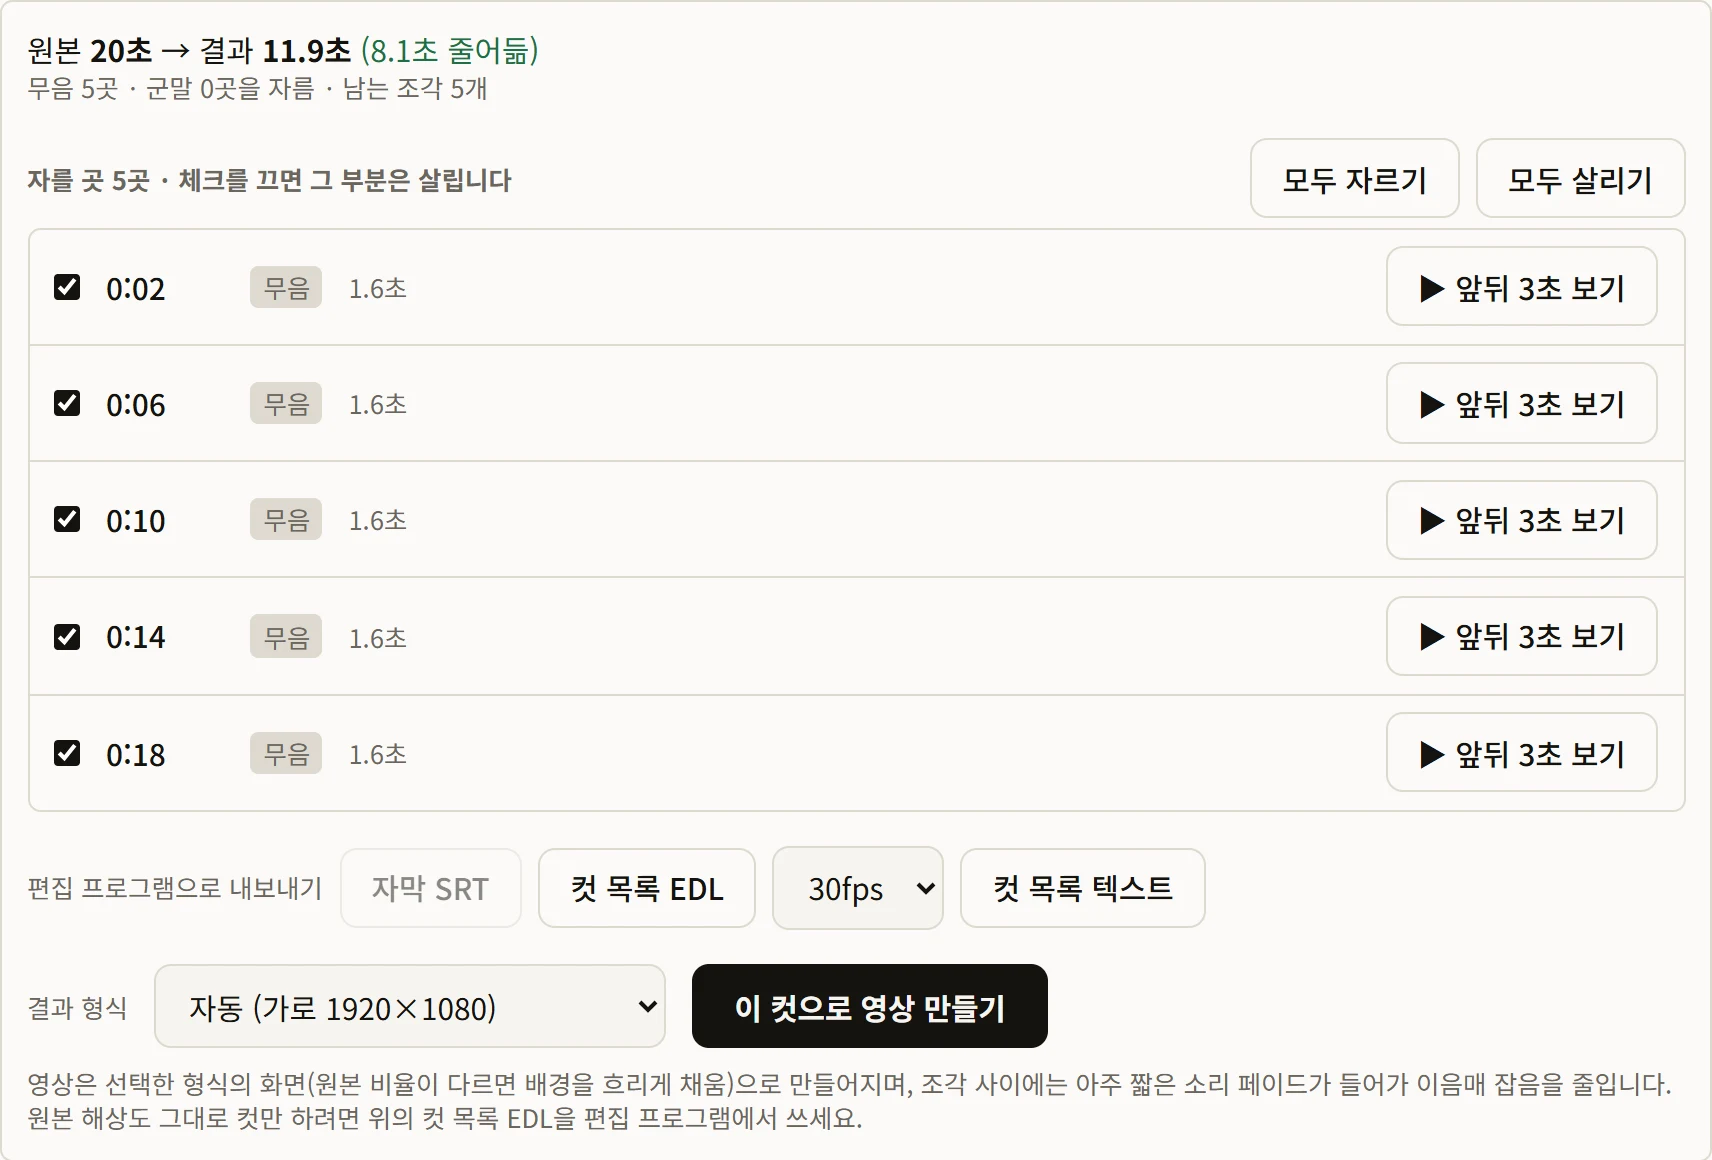
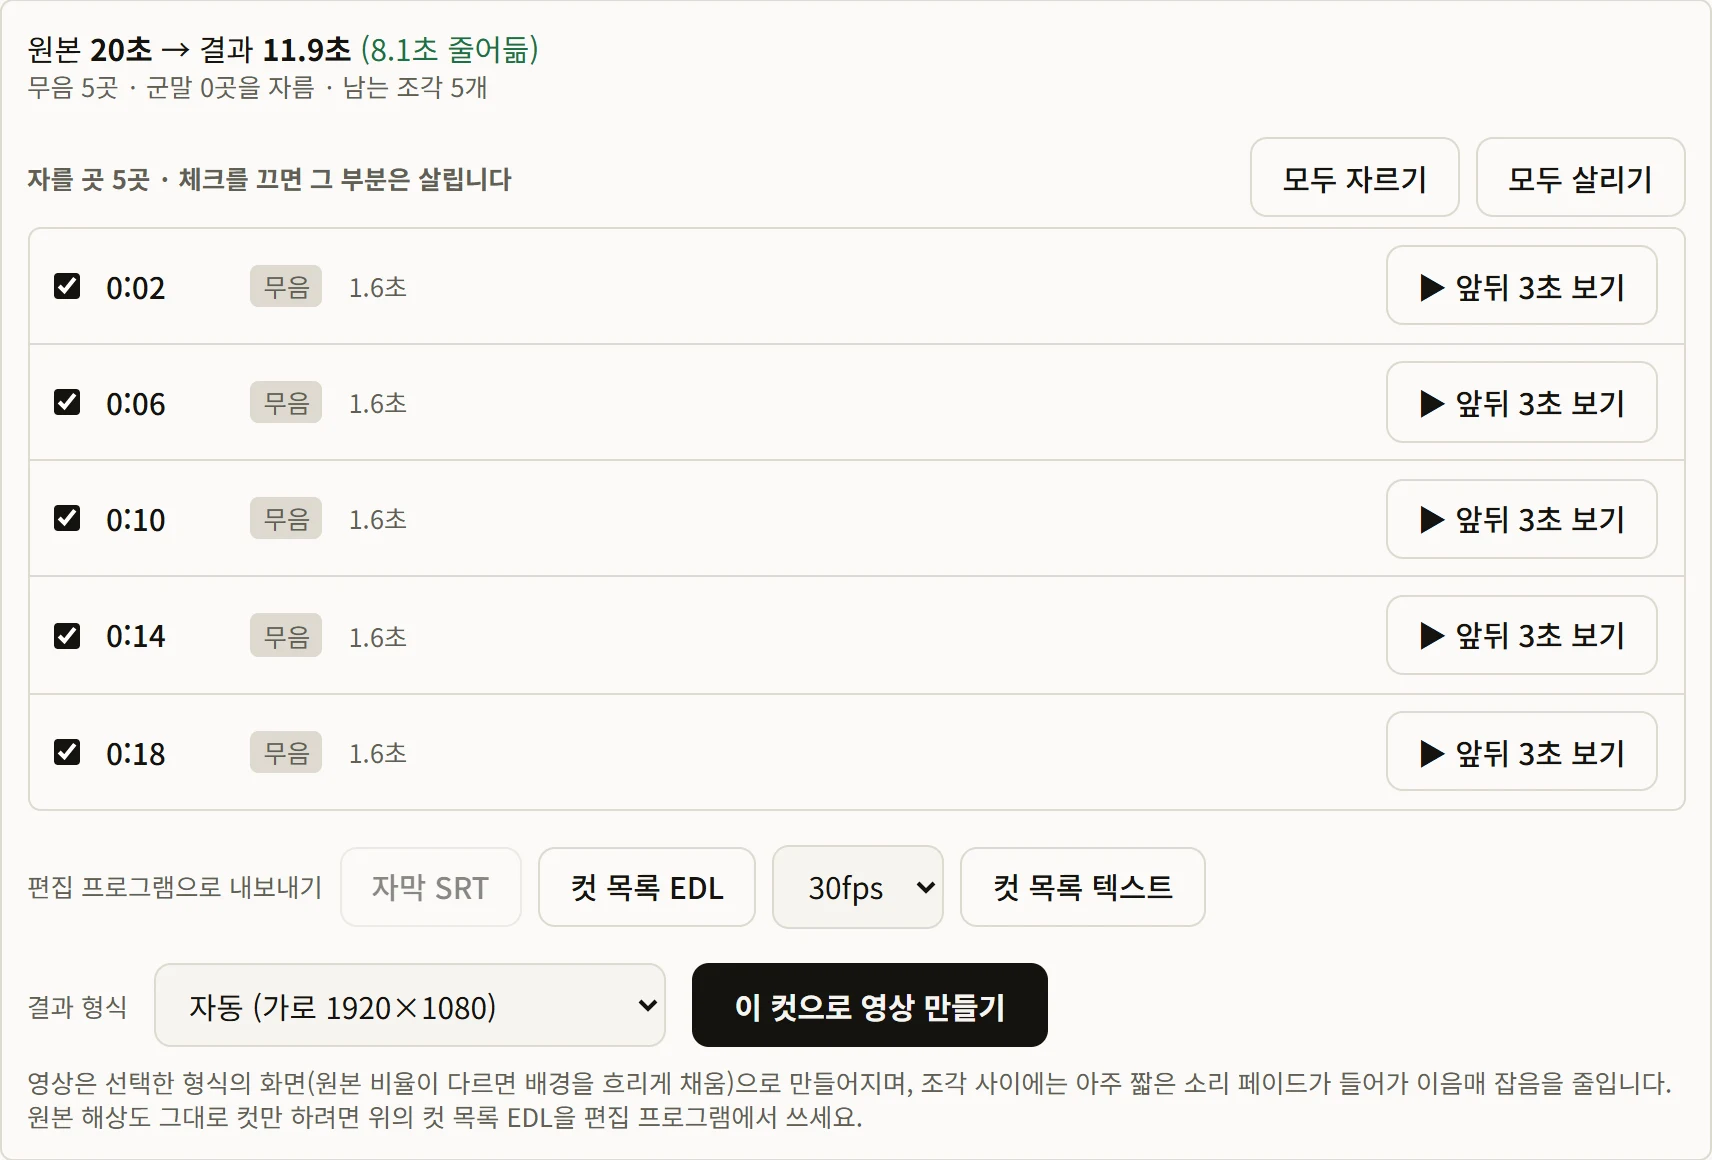
Refresh screenshots with the beat tool; list third-party software
- Retake the task, style and cut screenshots (the task list has a new card) and add the beat tool's screen
- capture-shots.mjs takes BEAT_VIDEO to also capture the beat tool
- THIRD_PARTY.md: packages, licenses, ffmpeg note, models and fonts still to be checked
- README points to it

diff --git a/src/components/site/Landing.tsx b/src/components/site/Landing.tsx
@@ -125,8 +125,9 @@ export default function Landing() {
           <h2 className="mt-3 max-w-2xl text-4xl font-bold sm:text-5xl">한 번에 하나씩, 버튼으로 넘어가요</h2>
           <p className="mt-4 max-w-2xl text-lg text-muted">작업을 고르고, 영상을 올리고, 꾸밀지 정하고, 만듭니다. 아래는 이 도구의 실제 화면입니다.</p>
           <div className="mt-12 grid gap-8 md:grid-cols-2">
-            <Shot src="/shots/task.webp" w={1904} h={1370} alt="1단계: 하고 싶은 작업 고르기" caption="1단계 · 하고 싶은 작업을 고릅니다" />
+            <Shot src="/shots/task.webp" w={1904} h={1882} alt="1단계: 하고 싶은 작업 고르기" caption="1단계 · 하고 싶은 작업을 고릅니다" />
             <Shot src="/shots/style.webp" w={1904} h={1394} alt="3단계: 자막 스타일 고르기" caption="3단계 · 자막 스타일을 고릅니다 (선택)" />
+            <Shot src="/shots/beats.webp" w={1802} h={2200} alt="박자에 맞춰 효과 넣기: 찾은 박자와 박 위치, 만드는 방식과 효과 선택" caption="박자에 맞춰 효과 넣기 · 음악의 박자를 찾은 결과 (합성한 북소리 영상)" />
           </div>
         </section>
 

diff --git a/README.md b/README.md
@@ -321,9 +321,13 @@ YouTube Studio에서 내려받은 **시청 지속률 데이터**(영상 하나, 
 - **CI**: `.github/workflows/ci.yml`이 푸시마다 타입 검사, 린트, 테스트, 일반 빌드, 데모 빌드를 돌립니다(아직 GitHub에서 한 번도 돌려 보지 못했습니다).
 - 참고: 이 과정에서 `package.json`의 `prepare` 스크립트(원클릭 준비)가 npm의 설치 훅 이름과 겹쳐 `npm install`/`npm ci`마다 저절로 실행될 수 있다는 것을 발견해 **`npm run prep`으로 이름을 바꿨습니다**(기존에 `npm run prepare`로 작업 스케줄러를 걸어 두었다면 명령을 바꿔야 합니다).
 
+## 사용한 외부 소프트웨어
+
+패키지·모델·글꼴과 그 라이선스는 [THIRD_PARTY.md](THIRD_PARTY.md)에 정리했습니다. 특히 ffmpeg는 GPL 계열이라 별도 프로그램으로만 실행하며, 이미지나 실행 파일로 배포하기 전에는 그 조건을 확인해야 합니다. 이 저장소 자체의 라이선스는 아직 정하지 않았습니다.
+
 ## 화면 스크린샷과 접근성
 
-- 소개 페이지(`/`)의 화면 그림은 실제 앱을 찍은 것입니다(`public/shots/*.webp`, 테스트용 합성 영상 기준). 화면이 바뀌면 개발 서버를 켠 채로 `node scripts/capture-shots.mjs <소리에 쉼이 있는 영상>`을 실행해 다시 찍습니다(로컬 Chrome을 DevTools 프로토콜로 조종하며 추가 패키지는 필요 없습니다).
+- 소개 페이지(`/`)의 화면 그림은 실제 앱을 찍은 것입니다(`public/shots/*.webp`, 테스트용 합성 영상 기준). 화면이 바뀌면 개발 서버를 켠 채로 `node scripts/capture-shots.mjs <소리에 쉼이 있는 영상>`을(박자 도구 화면도 찍으려면 환경변수 `BEAT_VIDEO`에 박자가 일정한 음악이 든 영상을 지정하고) 실행해 다시 찍습니다(로컬 Chrome을 DevTools 프로토콜로 조종하며 추가 패키지는 필요 없습니다).
 - 접근성: **axe-core 4.14.0**(MPL-2.0, 프로젝트 밖 임시 폴더에 설치해 실행; 이 저장소의 의존성이 아님)을 소개 페이지, 편집기 4단계(무음 컷 결과 화면 포함), 채널 분석 화면에 데스크톱(밝음·어두움)과 좁은 화면(375px, 320px)에서 돌려 위반 0건을 확인했습니다. 좁은 화면에서는 가로 넘침도 없습니다. 이 과정에서 고친 것: 제목 순서, 이름 없는 단계 버튼·선택창, 칩 위 보조 글자 명암비(4.05→4.58:1), 24px보다 작은 누르는 곳(라벨·요약·슬라이더·바닥글 링크).
 - 키보드: 실제 키 입력(Tab, Enter, Space)으로 "작업 고르기 → 다음 → 영상 올리기" 흐름을 지나며 고친 것: 단계가 바뀔 때 포커스가 사라지던 것(이제 새 단계 제목으로 이동), 권리 확인 체크 직후 영상 칸이 접히며 포커스를 잃던 것(이제 접히지 않음), 끌어다 놓는 칸에 포커스 표시가 없던 것, 본문 건너뛰기 링크가 본문으로 가지 않던 것. 스크린 리더로 읽을 때의 느낌은 직접 확인하지 못했고, AI 결과 화면(후보·계획 패널)은 비용 때문에 점검에서 빠졌습니다. 글자색 명암비는 밝은 화면 기준 보조 글자 5.9:1입니다.
 

diff --git a/THIRD_PARTY.md b/THIRD_PARTY.md
@@ -1,0 +1,37 @@
+# 사용한 외부 소프트웨어
+
+이 프로젝트가 쓰는 것들과 그 라이선스입니다. 패키지 목록은 `package.json`과 설치된 `node_modules/*/package.json`의 `license` 항목에서 옮겼습니다(버전은 작성 시점). 이 저장소 자체의 라이선스는 아직 정하지 않았습니다.
+
+## 실행에 쓰는 패키지
+
+| 패키지 | 버전 | 라이선스 | 쓰는 곳 |
+|---|---|---|---|
+| next, react, react-dom | 16.4.3, 19.3.0 | MIT | 웹 앱 |
+| zod | 4.6.6 | MIT | 요청 검증 |
+| @anthropic-ai/sdk | 0.133.0 | MIT | AI 기능(사용자의 API 키로만 호출) |
+| @huggingface/transformers | 4.3.1 | Apache-2.0 | 내 컴퓨터에서 사람 찾기·음성 인식 실행 |
+| music-tempo | 1.0.3 | MIT | 박자 찾기(BeatRoot 알고리즘) |
+| ffmpeg-static | 5.3.0 | GPL-3.0-or-later | 영상 처리용 ffmpeg 실행 파일을 내려받아 둠 |
+
+## 개발에만 쓰는 패키지
+
+tailwindcss·@tailwindcss/turbopack(MIT), eslint·eslint-config-next(MIT), tsx(MIT), typescript(Apache-2.0), @types/*(MIT).
+
+## ffmpeg에 대해
+
+ffmpeg는 **별도의 프로그램으로 실행**할 뿐 이 프로젝트 코드에 링크하거나 이 저장소에 포함하지 않습니다. `ffmpeg-static`이 설치할 때 실행 파일을 내려받고, 패키지 정보에는 GPL-3.0-or-later로 적혀 있습니다. Docker 이미지는 Debian의 ffmpeg 패키지를 설치합니다. 이 프로젝트를 이미지나 실행 파일 형태로 **배포**하려면 ffmpeg 쪽 라이선스 조건(소스 제공 등)을 별도로 확인하세요. 이 문서는 법률 자문이 아닙니다.
+
+## 모델 (처음 쓸 때 내려받아 `.data/models`에 저장, 저장소에는 없음)
+
+- 사람·동물 찾기: `Xenova/yolos-tiny`
+- 음성 인식(군말 찾기): `Xenova/whisper-small`
+
+두 모델의 라이선스는 **여기서 확인하지 못했습니다**(내려받은 폴더에 모델 카드가 없음). 사용하거나 배포하기 전에 Hugging Face의 각 모델 페이지에서 확인하세요.
+
+## 글꼴
+
+Docker 이미지에는 `fonts-nanum`(SIL OFL로 알고 있으나 확인하지 않았습니다)을 설치합니다. Windows에서는 시스템에 있는 맑은 고딕·나눔고딕을 그대로 씁니다.
+
+## 아이디어를 참고한 곳
+
+시청 지속 분석의 "도입·급락·완만한 하락으로 나눠 보기"는 MIT 라이선스의 [youtube-agent-skill](https://github.com/Jakeschincariol/youtube-agent-skill)에서 아이디어를 얻었고 코드는 새로 작성했습니다.
